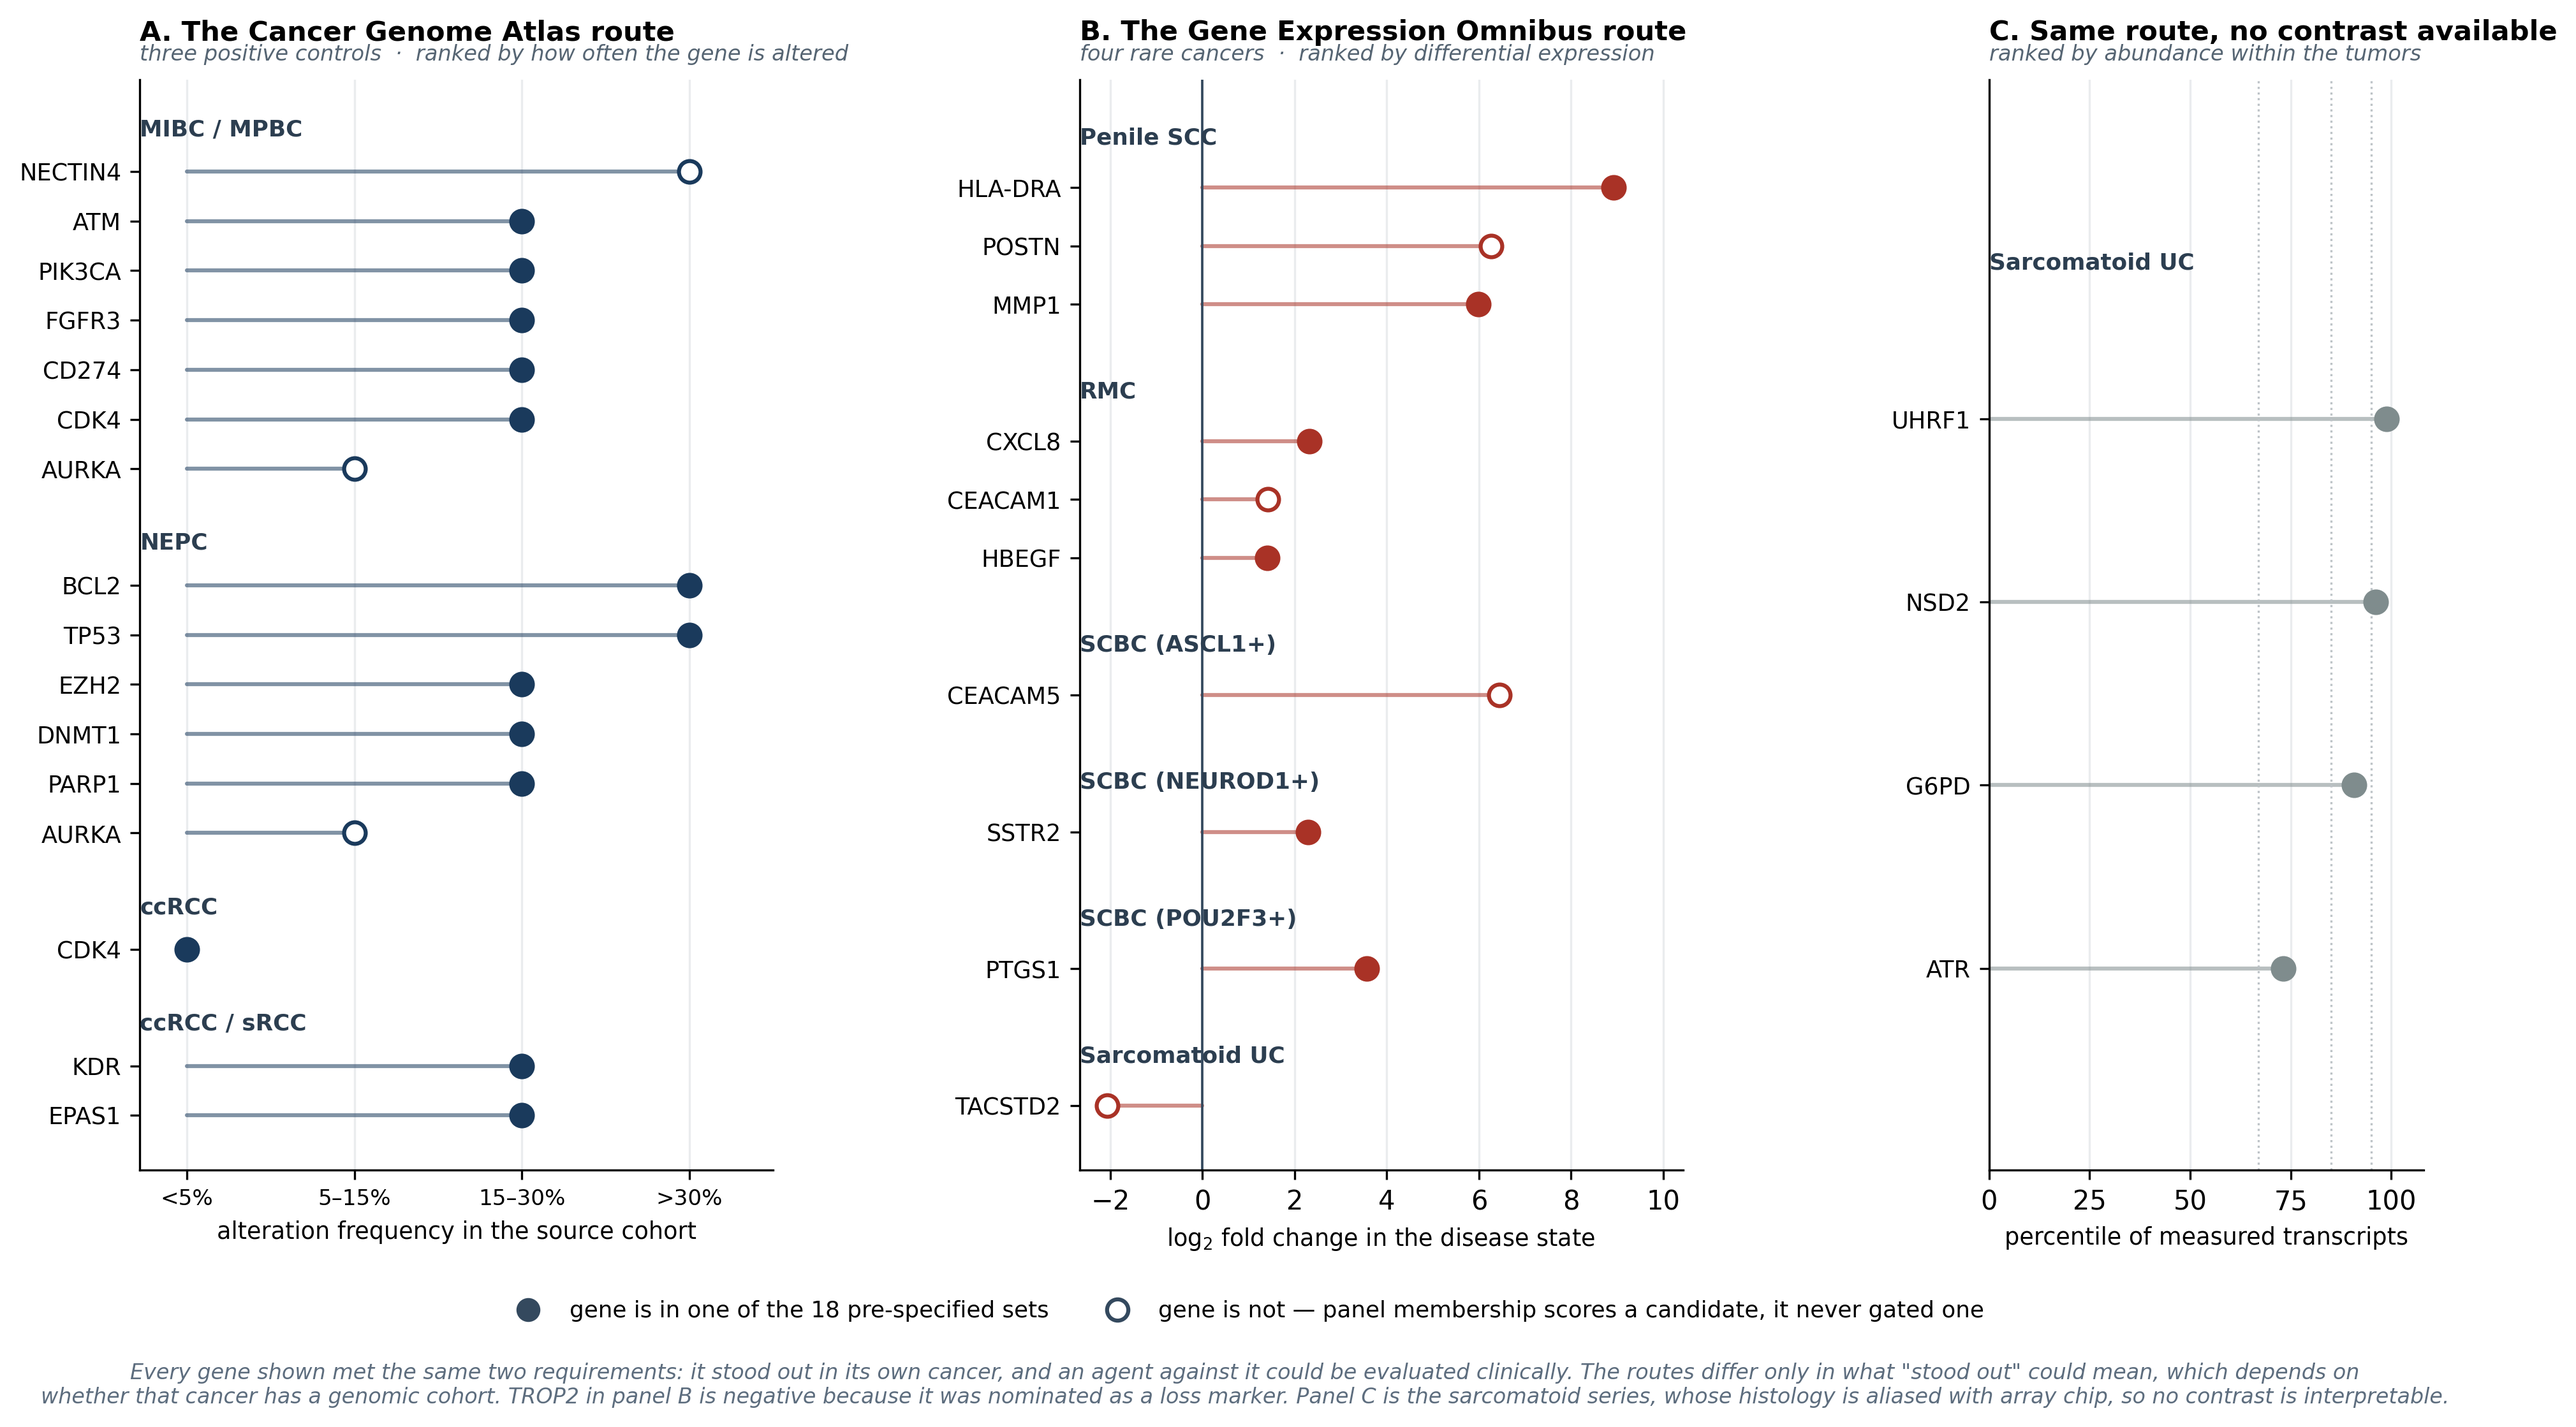
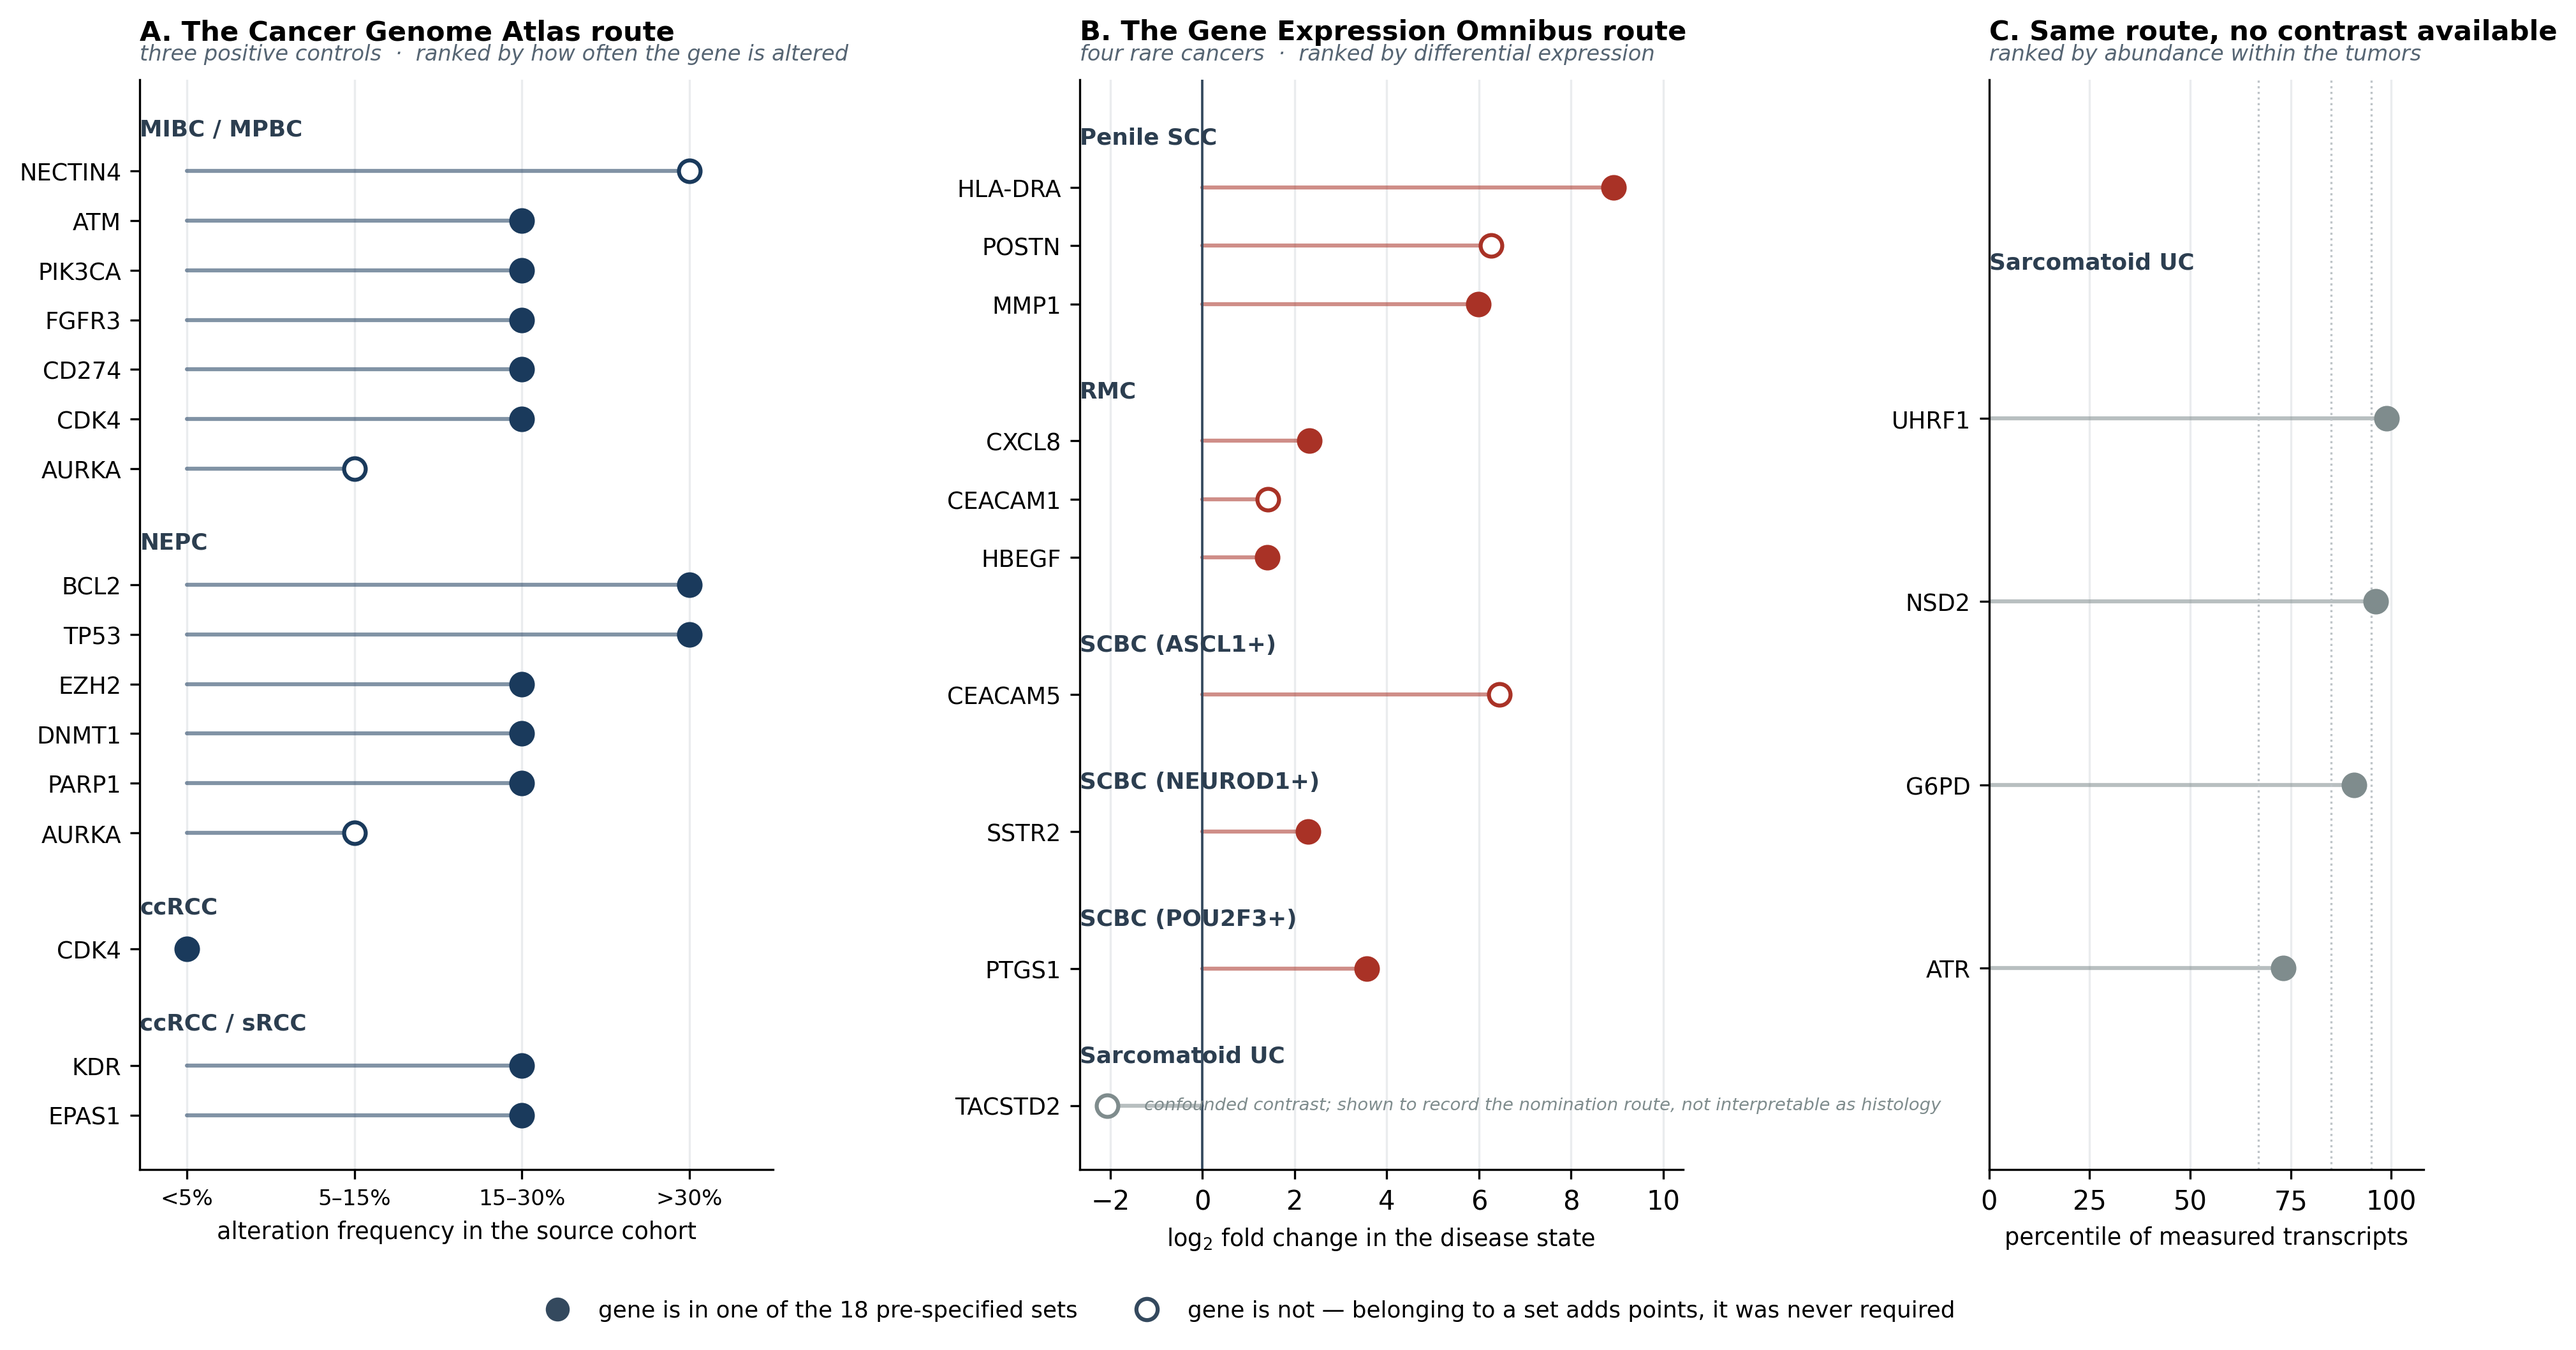
Fix three figures that contradicted the text or carried purged terms
Figure 2B plotted CXCL8, CXCL1, CXCL2, CXCL3 and CEACAM1 as one block under a
title reading "pathway q = 0.0025 on the both-lines set". CEACAM1 belongs to no
enriched set - the Results now say so explicitly and use it as the reason
CXCR1/CXCR2 outranks it - so the figure asserted the opposite of the text. The
four ligands are now separated from CEACAM1 by a gap, the q-value is attached
only to the ligands that drive the enrichment, and CEACAM1 is labelled
"nominated separately, in no enriched set". Panel A's title loses "agreement is
the exception"; the r-value states the fact.

Supplementary Figure S2 showed TACSTD2 at -2 on an axis labelled "log2 fold
change in the disease state" under a Sarcomatoid UC heading. That value comes
from the contrast the paper says no model can separate from array chip, and the
disclaimer under the figure pointed at panel C instead. The sarcomatoid rows in
panel B are now grey and annotated in place. The small italic block under the
figure moves into the legend, where the authors asked such text to live; only
the sarcomatoid sentence was actually new, the rest already appeared in the
supplement body and in the legend's own panel B line.

"Aliased" and "panel membership" were coined terms purged from the prose and
still present in this figure. Figure 3 said "tumours"; the manuscript and JCO
are US spelling.

98/98 audit. Body 4,000 words, abstract 298.

diff --git a/code/pipeline/55_figure_selection_routes.py b/code/pipeline/55_figure_selection_routes.py
@@ -83,13 +83,23 @@ def draw(ax, sub, value, color, xlabel, title, subtitle, xlim=None,
     for ctx, grp in sub.groupby('Context', sort=False):
         headers.append((y, ctx))
         y -= 0.85
+        # the sarcomatoid contrast is confounded with array chip, so its
+        # fold changes record the nomination route and nothing more
+        _conf = str(ctx).lower().startswith('sarcomatoid') and value == 'lfc'
+        _c = GREY if _conf else color
         for _, r in grp.iterrows():
             v = float(r[value])
-            ax.plot([0, v], [y, y], color=color, lw=1.5, alpha=0.55,
+            ax.plot([0, v], [y, y], color=_c, lw=1.5, alpha=0.55,
                     zorder=1, solid_capstyle='round')
-            ax.scatter([v], [y], s=66, zorder=3, color=color,
-                       edgecolor=color, linewidth=1.5,
-                       facecolor=color if r['in_panel'] else 'white')
+            ax.scatter([v], [y], s=66, zorder=3, color=_c,
+                       edgecolor=_c, linewidth=1.5,
+                       facecolor=_c if r['in_panel'] else 'white')
+            if _conf:
+                ax.annotate('confounded contrast; shown to record the nomination '
+                            'route, not interpretable as histology',
+                            xy=(v, y), xytext=(14, 0),
+                            textcoords='offset points', fontsize=6.6,
+                            style='italic', color=GREY, va='center')
             ypos.append(y)
             labels.append(r['scoring_gene'])
             y -= 1.0
@@ -146,20 +156,12 @@ leg = [Line2D([0], [0], marker='o', color='w', markerfacecolor='#34495e',
               label='gene is in one of the 18 pre-specified sets'),
        Line2D([0], [0], marker='o', color='w', markerfacecolor='white',
               markeredgecolor='#34495e', markeredgewidth=1.5, markersize=8,
-              label='gene is not — panel membership scores a candidate, '
-                    'it never gated one')]
+              label='gene is not \u2014 belonging to a set adds points, '
+                    'it was never required')]
 fig.legend(handles=leg, loc='lower center', ncol=2, frameon=False,
            fontsize=8.6, bbox_to_anchor=(0.5, -0.012))
 
-fig.text(0.5, -0.055,
-         'Every gene shown met the same two requirements: it stood out in its '
-         'own cancer, and an agent against it could be evaluated clinically. '
-         'The routes differ only in what "stood out" could mean, which '
-         'depends on\nwhether that cancer has a genomic cohort. TROP2 in '
-         'panel B is negative because it was nominated as a loss marker. '
-         'Panel C is the sarcomatoid series, whose histology is aliased with '
-         'array chip, so no contrast is interpretable.',
-         ha='center', fontsize=8.0, style='italic', color='#5d6d7e')
+# the explanatory block that sat here is now in the figure legend
 
 out = FIG / 'FigureS2_selection_routes.png'
 plt.savefig(out, dpi=300, bbox_inches='tight', facecolor='white')

diff --git a/code/pipeline/40_figure2_rmc_v29.py b/code/pipeline/40_figure2_rmc_v29.py
@@ -73,7 +73,7 @@ r_p = np.corrcoef(x[ok], y[ok])[0, 1]
 axA.set_xlabel('log$_2$ fold change, RMC-2C', fontsize=8.6)
 axA.set_ylabel('log$_2$ fold change, RMC219', fontsize=8.6)
 axA.set_title('A. The two patient-derived lines compared\n'
-              f'genome-wide r = {r_p:.2f}; agreement is the exception',
+              f'genome-wide r = {r_p:.2f}',
               fontsize=9.3, weight='bold', loc='left')
 axA.legend(loc='lower right', fontsize=7.2, frameon=False)
 for s in ('top', 'right'):
@@ -81,19 +81,42 @@ for s in ('top', 'right'):
 
 # ---------------- B: the chemokine axis, per line --------------------------
 axB = fig.add_subplot(gs[0, 1])
-ypos = np.arange(len(present))[::-1]
+# CEACAM1 is nominated separately and is in no enriched set, so it is
+# separated from the four chemokine ligands by a gap rather than stacked with
+# them under one pathway q-value
+GAP = 0.9
+ypos = np.array([(len(present) - 1 - _i)
+                 + (0.0 if _g == 'CEACAM1' else GAP)
+                 for _i, _g in enumerate(present)])
 w = 0.38
 axB.barh(ypos + w / 2, [d.loc[g, 'l2fc_disease_48h_2C'] for g in present],
          height=w, color='#1f4e79', label='RMC-2C')
 axB.barh(ypos - w / 2, [d.loc[g, 'l2fc_disease_48h_219'] for g in present],
          height=w, color='#7fb3d5', label='RMC219')
-axB.set_yticks(ypos); axB.set_yticklabels(present, fontsize=8.6)
+axB.set_yticks(ypos)
+axB.set_yticklabels([g if g != 'CEACAM1' else 'CEACAM1' for g in present],
+                    fontsize=8.6)
 axB.axvline(0, lw=0.8, c='#333')
 axB.set_xlabel('log$_2$ fold change (higher in SMARCB1-null disease state)',
                fontsize=8.2)
-axB.set_title('B. Nominated RMC signals, each line separately\n'
-              f'pathway q = {chem_q:.4f} on the both-lines set',
+axB.set_title('B. Nominated RMC signals, each line separately',
               fontsize=9.3, weight='bold', loc='left')
+# annotate the two groups inside the axes, so the q-value is attached only to
+# the ligands that actually drive the enrichment
+_lig = [g for g in present if g != 'CEACAM1']
+_xr = max(abs(d.loc[g, 'l2fc_disease_48h_2C']) for g in present) * 1.02
+if _lig:
+    _y = [ypos[present.index(g)] for g in _lig]
+    axB.text(_xr, float(max(_y)) + 0.60,
+             f'chemokine ligands of the enriched pathway (q = {chem_q:.4f})',
+             ha='right', va='center', fontsize=6.8, style='italic',
+             color='#1f4e79')
+if 'CEACAM1' in present:
+    axB.text(_xr, float(ypos[present.index('CEACAM1')]) + 0.60,
+             'CEACAM1: nominated separately, in no enriched set',
+             ha='right', va='center', fontsize=6.8, style='italic',
+             color='#7d6608')
+axB.set_ylim(-0.8, float(max(ypos)) + 1.15)
 axB.legend(fontsize=7.4, frameon=False, loc='lower right')
 for s in ('top', 'right'):
     axB.spines[s].set_visible(False)

diff --git a/code/pipeline/52_build_supplementary_methods_v29.py b/code/pipeline/52_build_supplementary_methods_v29.py
@@ -204,7 +204,11 @@ if _s2.exists():
         'genes are ranked by abundance within the tumors instead. Filled '
         'markers are genes belonging to one of the eighteen pre-specified gene '
         'sets; open markers are genes outside them. Belonging to a set '
-        'added points to the score but was not required for entry.')
+        'added points to the score but was not required for entry. The '
+        'sarcomatoid rows in panel B are grey because that series '
+        'confounds histology with array chip, so their fold changes '
+        'record the nomination route and cannot be read as a difference '
+        'between histologies.')
     _r2.font.size = Pt(9)
     _r2.italic = True
 

diff --git a/code/pipeline/46_figures_3_4_v29.py b/code/pipeline/46_figures_3_4_v29.py
@@ -166,7 +166,7 @@ for i, v in enumerate(vals):
     axA.text(i, v + 0.4, str(v), ha='center', fontsize=8.4, weight='bold')
 axA.set_xticks(range(len(order)))
 axA.set_xticklabels([f'{s}+' for s in order], fontsize=8.2)
-axA.set_ylabel('tumours', fontsize=8.6)
+axA.set_ylabel('tumors', fontsize=8.6)
 axA.set_ylim(0, max(vals) * 1.2)
 axA.set_title(f'A. Lineage subtypes\nGSE269750, n = {int(sum(vals))}',
               fontsize=9.5, weight='bold', loc='left')
